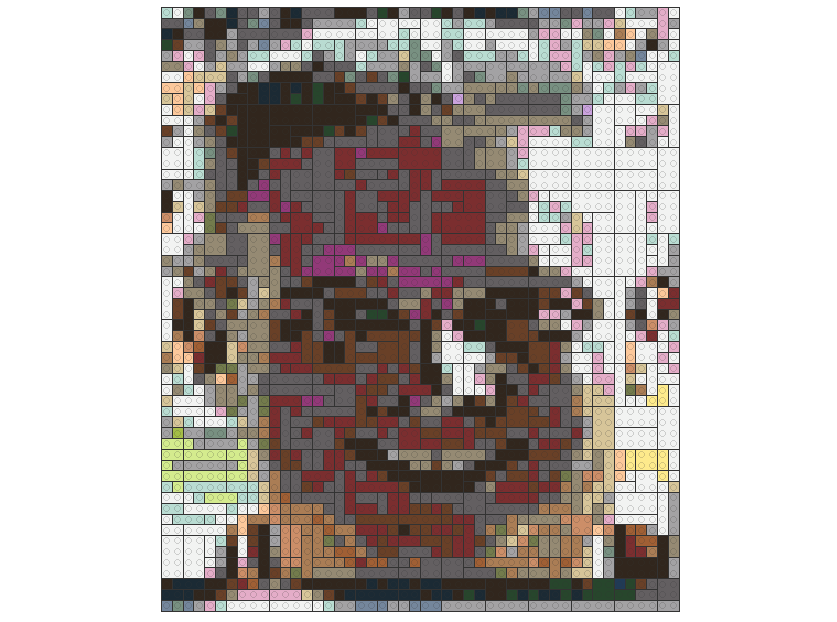
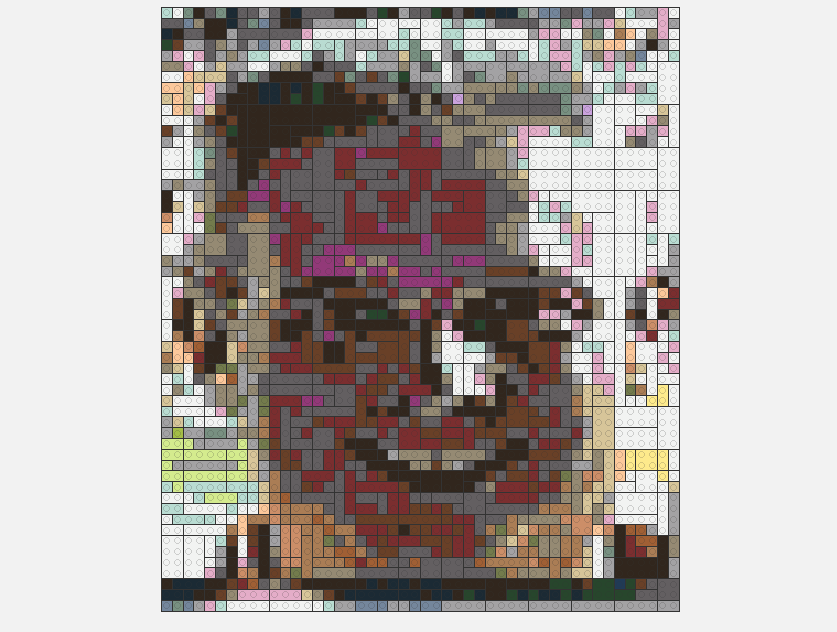
20190304GlenCFalkC
a. added #F2F2F2 RGB(242,242,242) to background of glego.png

Changed region(s): [[0.1864, 0.0, 0.8387, 1.0], [0.6213, 0.0, 0.8076, 0.0305], [0.2174, 0.0, 0.2485, 0.0305]]

diff --git a/cv/GlenCFalkCV.html b/cv/GlenCFalkCV.html
@@ -23,7 +23,7 @@
 
 <div id="aside" class="section level1">
 <h1>Aside</h1>
-<p><img src="/../GlenCFalk/public/images/GlenCFalk.png" alt="Glen C. Falk" style="width:80.0%" /></p>
+<p><img src="../public/images/glego.png" alt="Glen Falk" style="width:80.0%" /></p>
 <div id="contact" class="section level2">
 <h2>Contact Info</h2>
 <ul>
